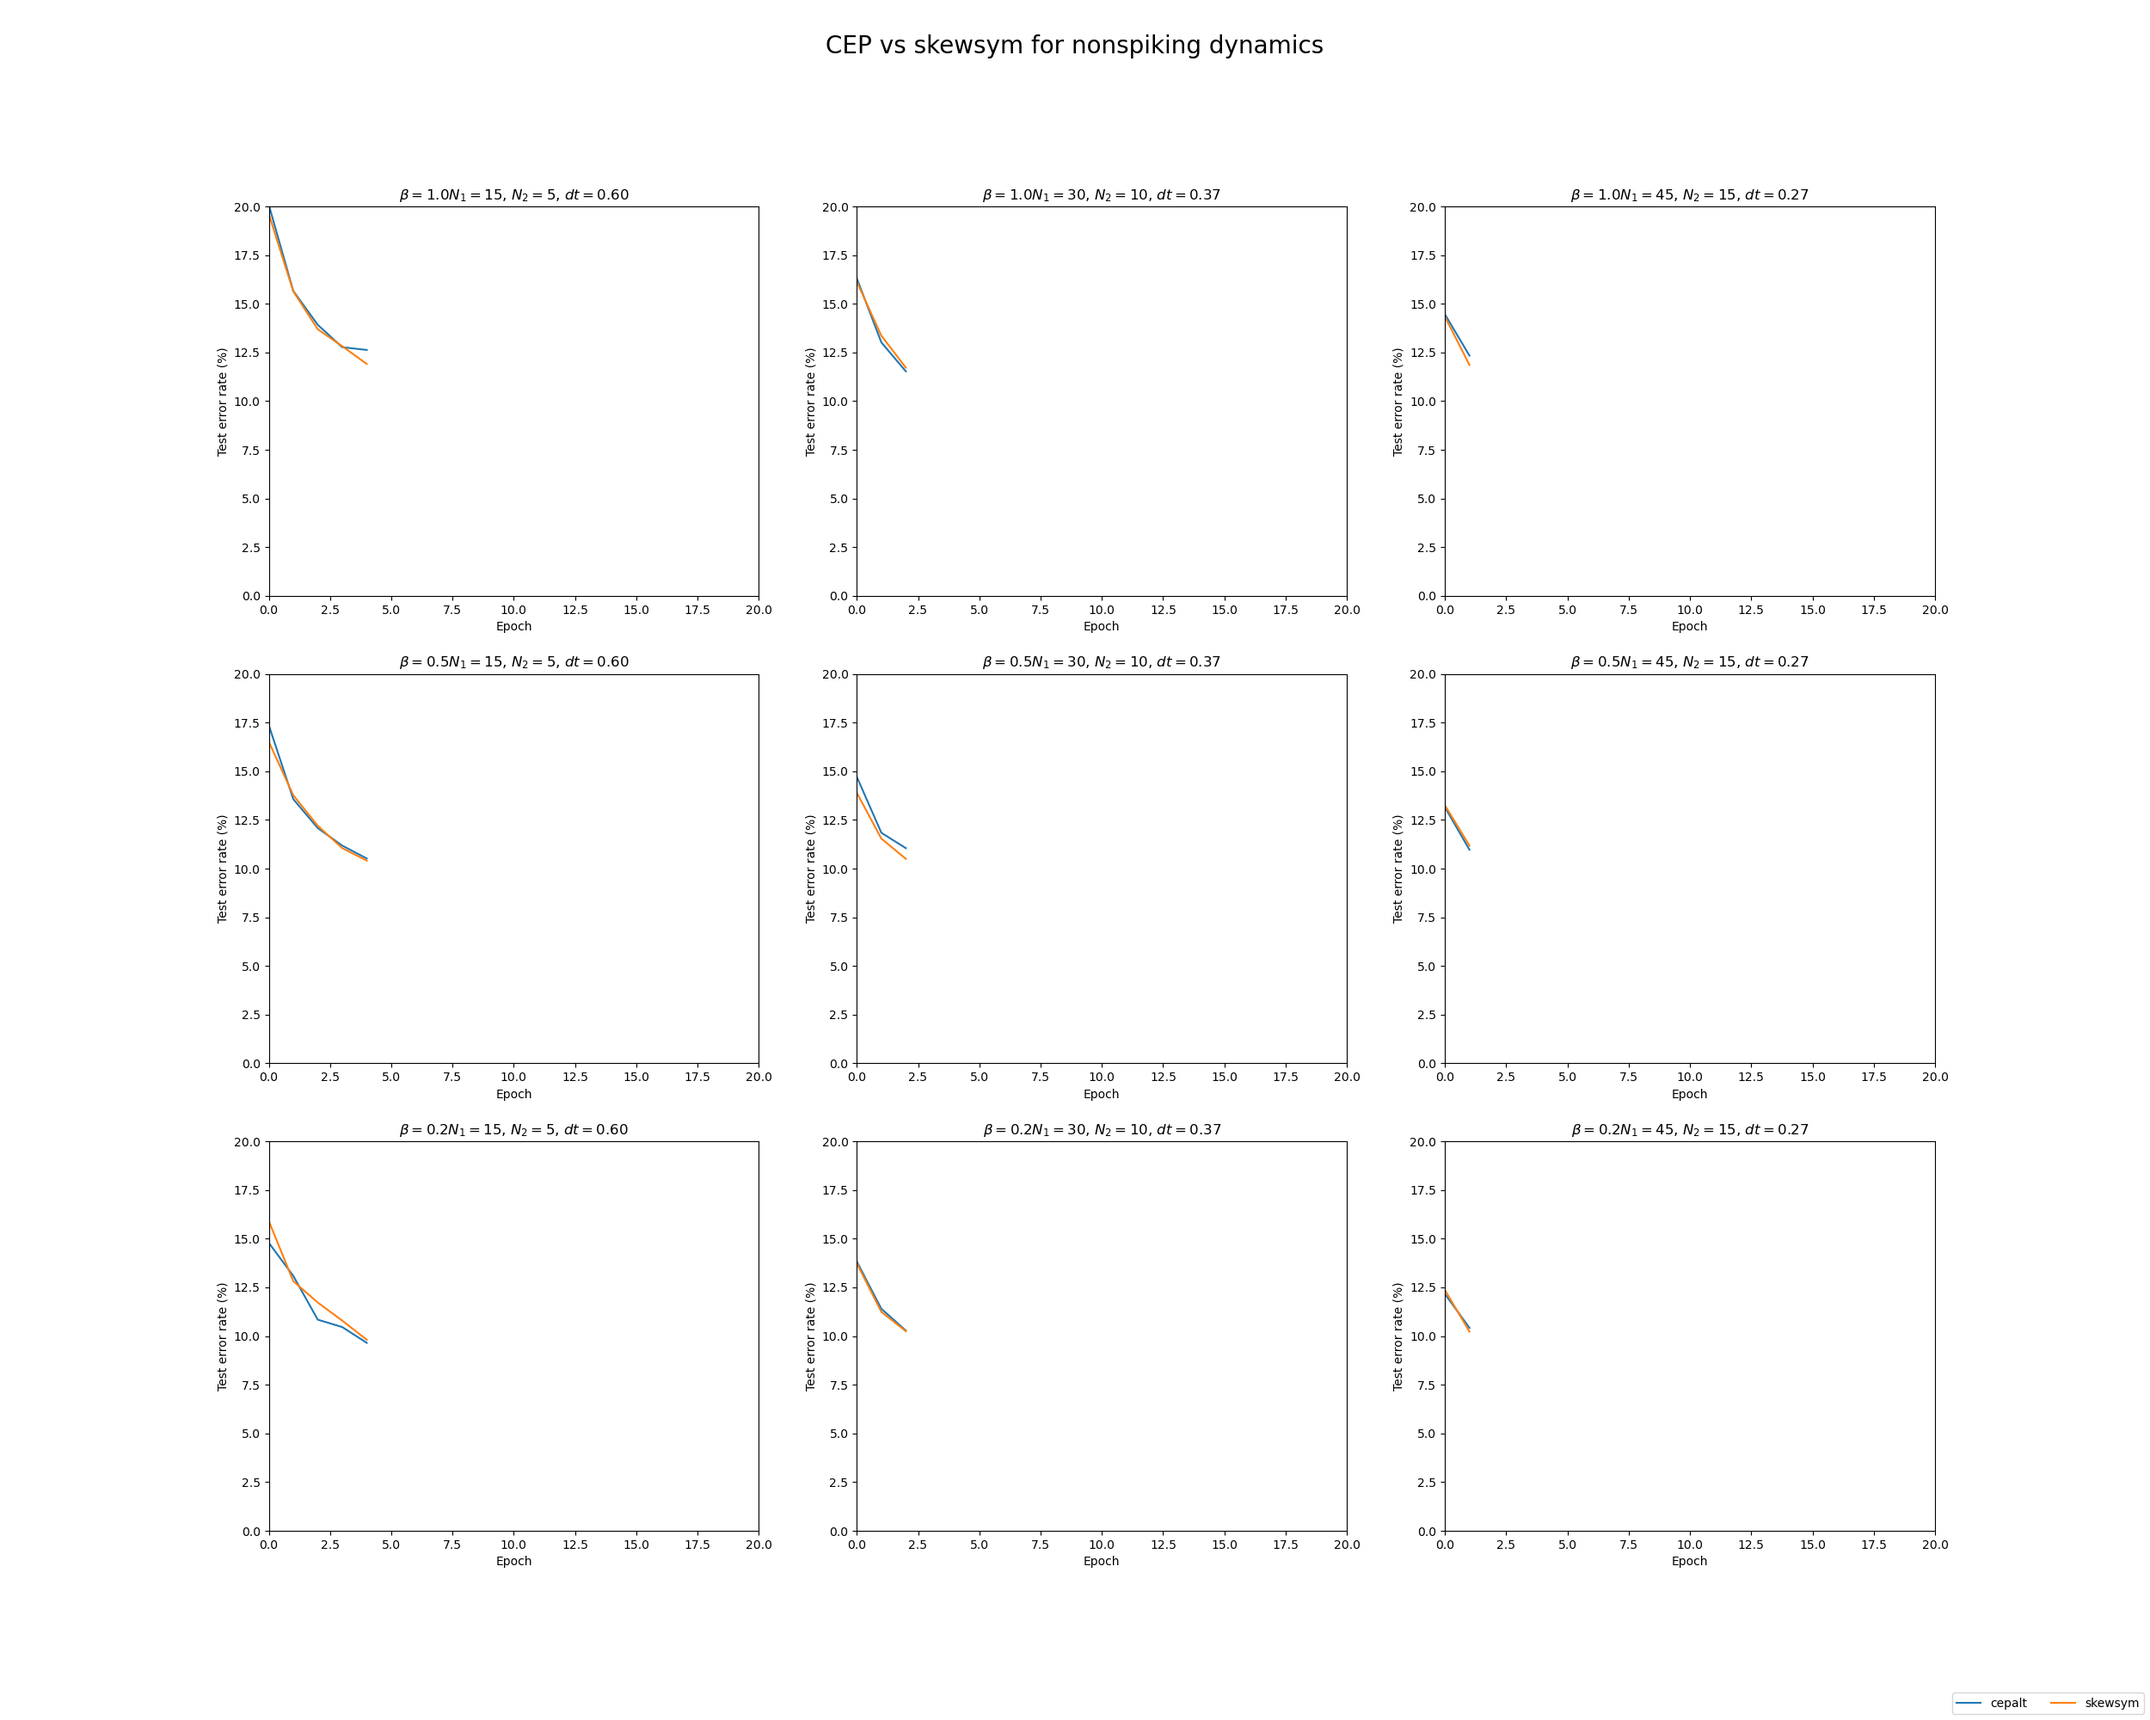
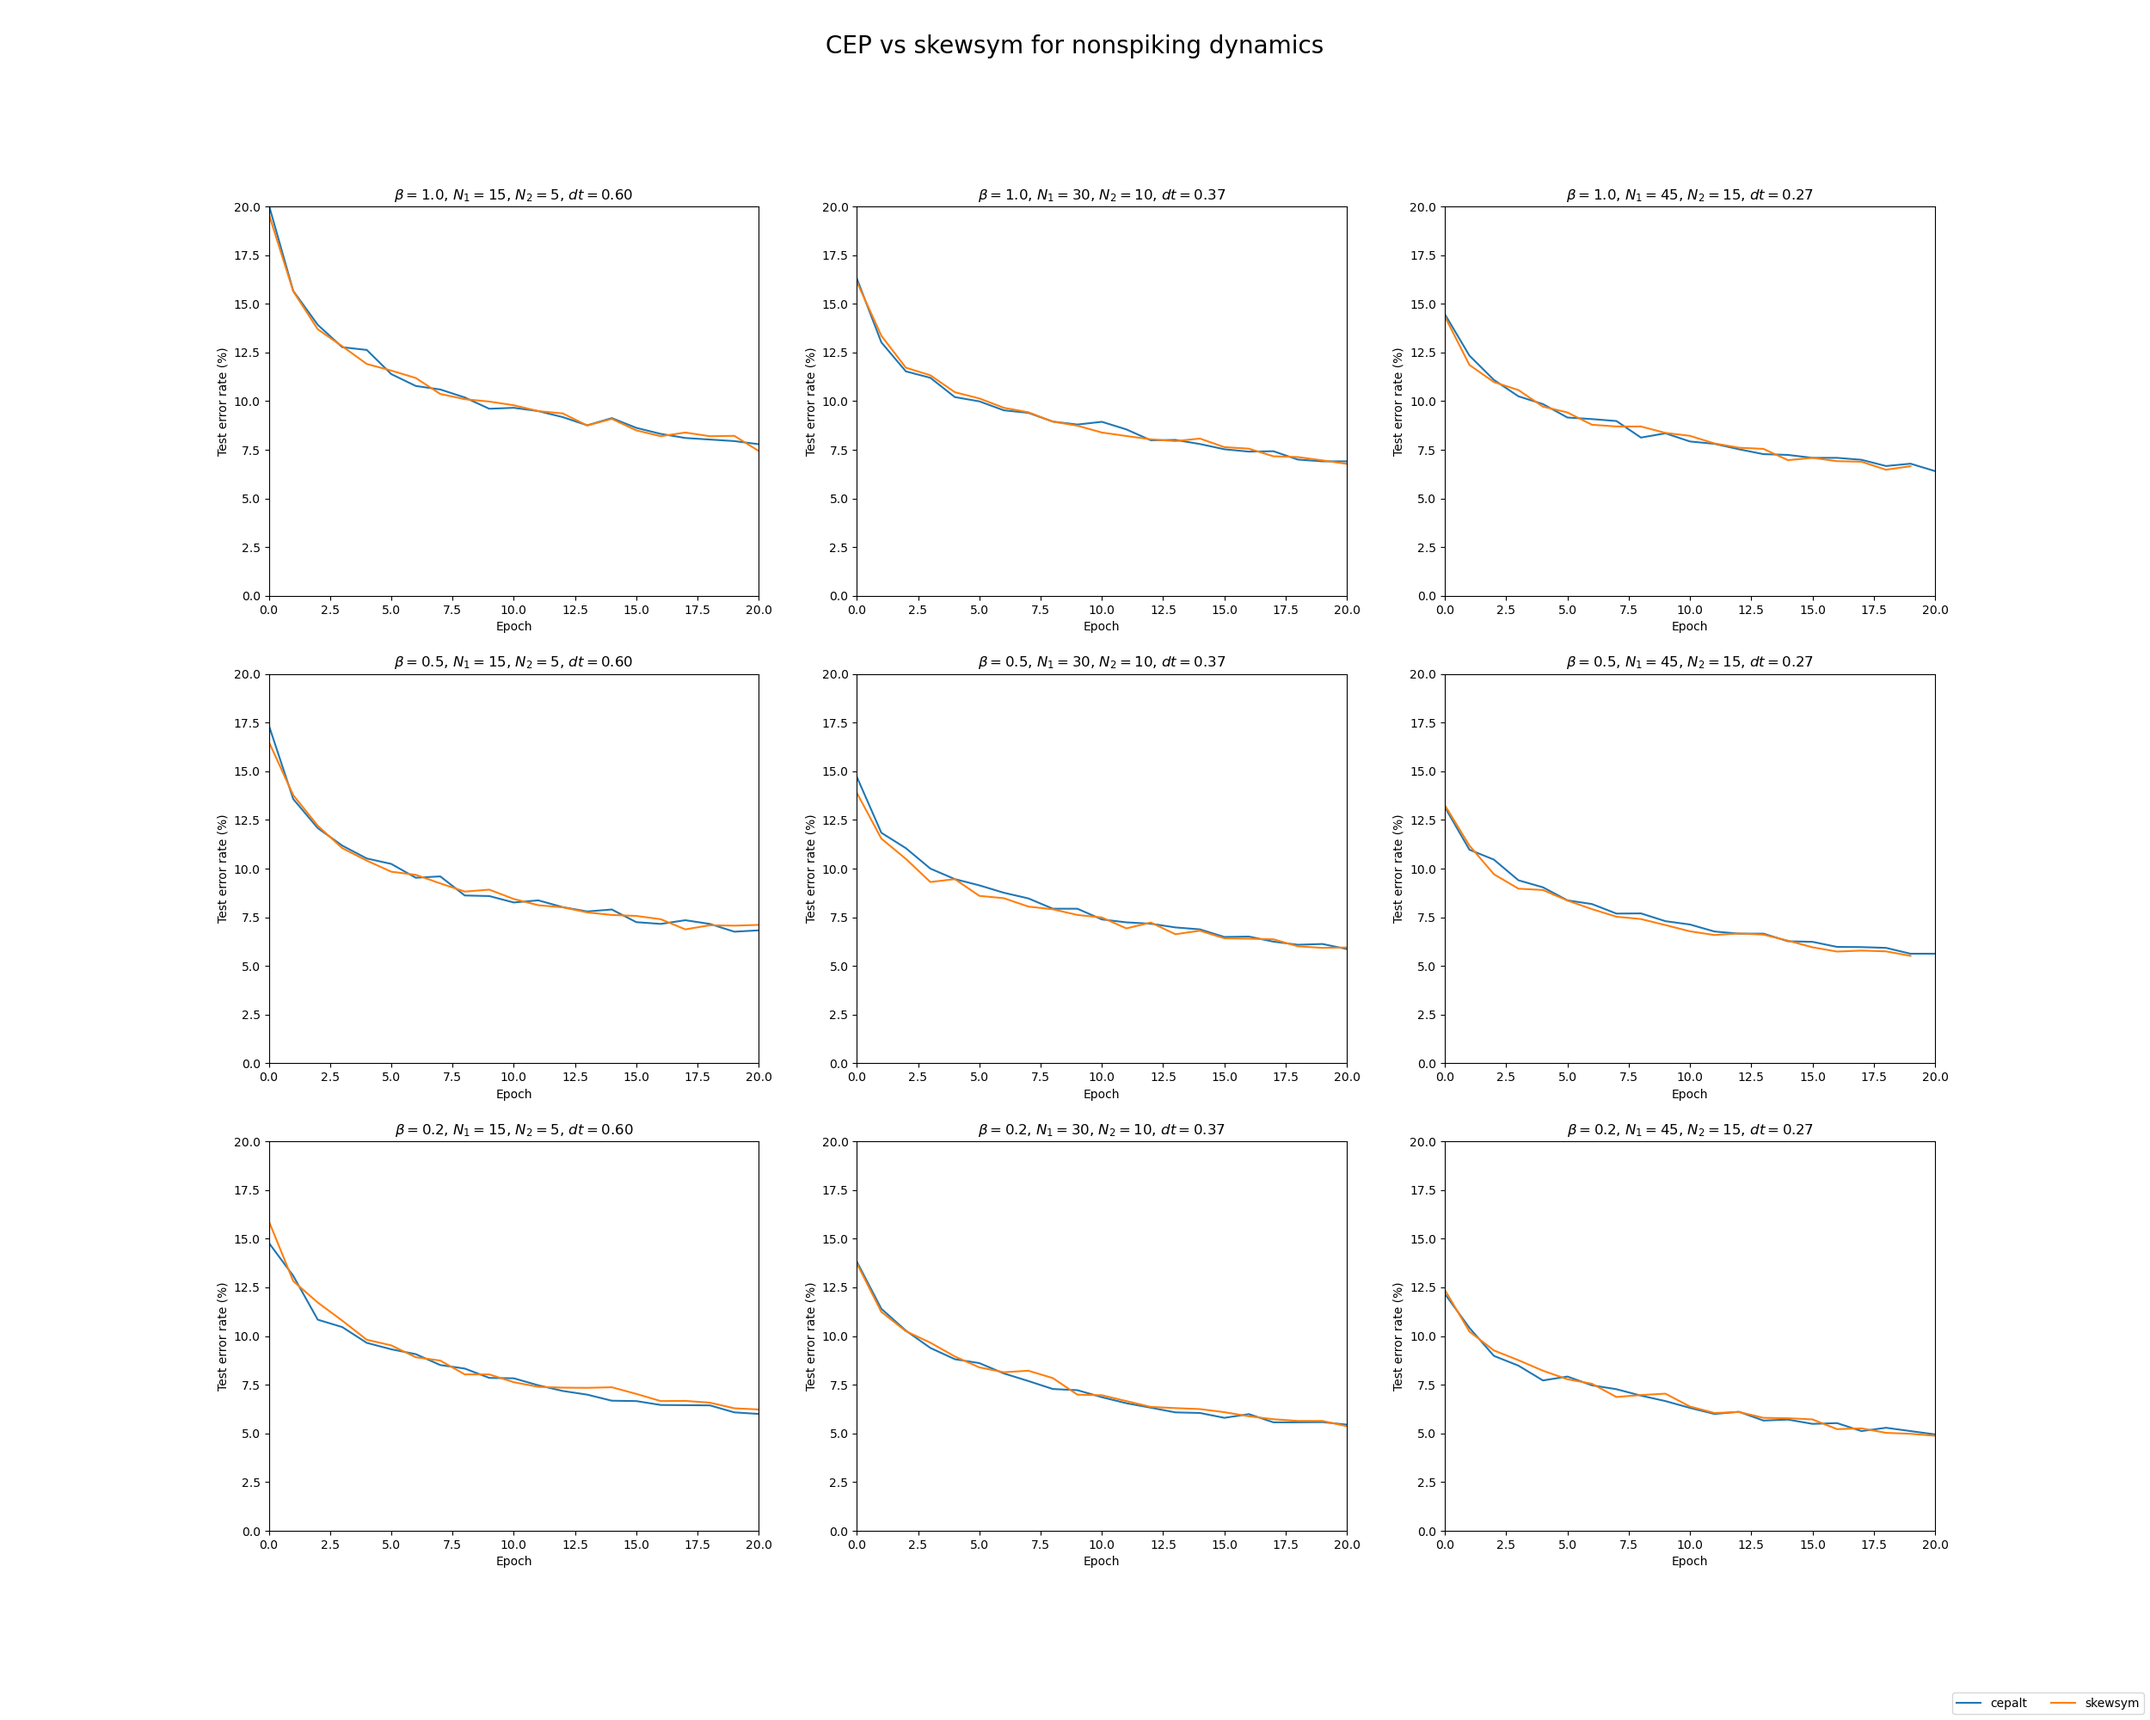
wip

diff --git a/graphUtil.py b/graphUtil.py
@@ -169,7 +169,7 @@ for idx1,beta in enumerate([1.0,0.5,0.2]):
         ax[idx1,idx2].set_ylabel('Test error rate (%)')
         ax[idx1,idx2].set_xlim([0,20])
         ax[idx1,idx2].set_ylim([0,20])
-        ax[idx1,idx2].set_title(r'$\beta = $' +str(beta)+'$N_1=$'+str(3*Kmax)+', $N_2=$'+str(Kmax)+', $dt = $'+'{:.2f}'.format(1-(2**(-20/(3*Kmax)))) )
+        ax[idx1,idx2].set_title(r'$\beta = $' +str(beta)+', $N_1=$'+str(3*Kmax)+', $N_2=$'+str(Kmax)+', $dt = $'+'{:.2f}'.format(1-(2**(-20/(3*Kmax)))) )
 fig.suptitle(r"CEP vs skewsym for nonspiking dynamics",fontsize=20)
 fig.legend(labels, loc='lower right', ncol=len(labels), bbox_transform=fig.transFigure)
 fig.savefig('cepalt_vs_skewsym.png')#,bbox_inches="tight")
